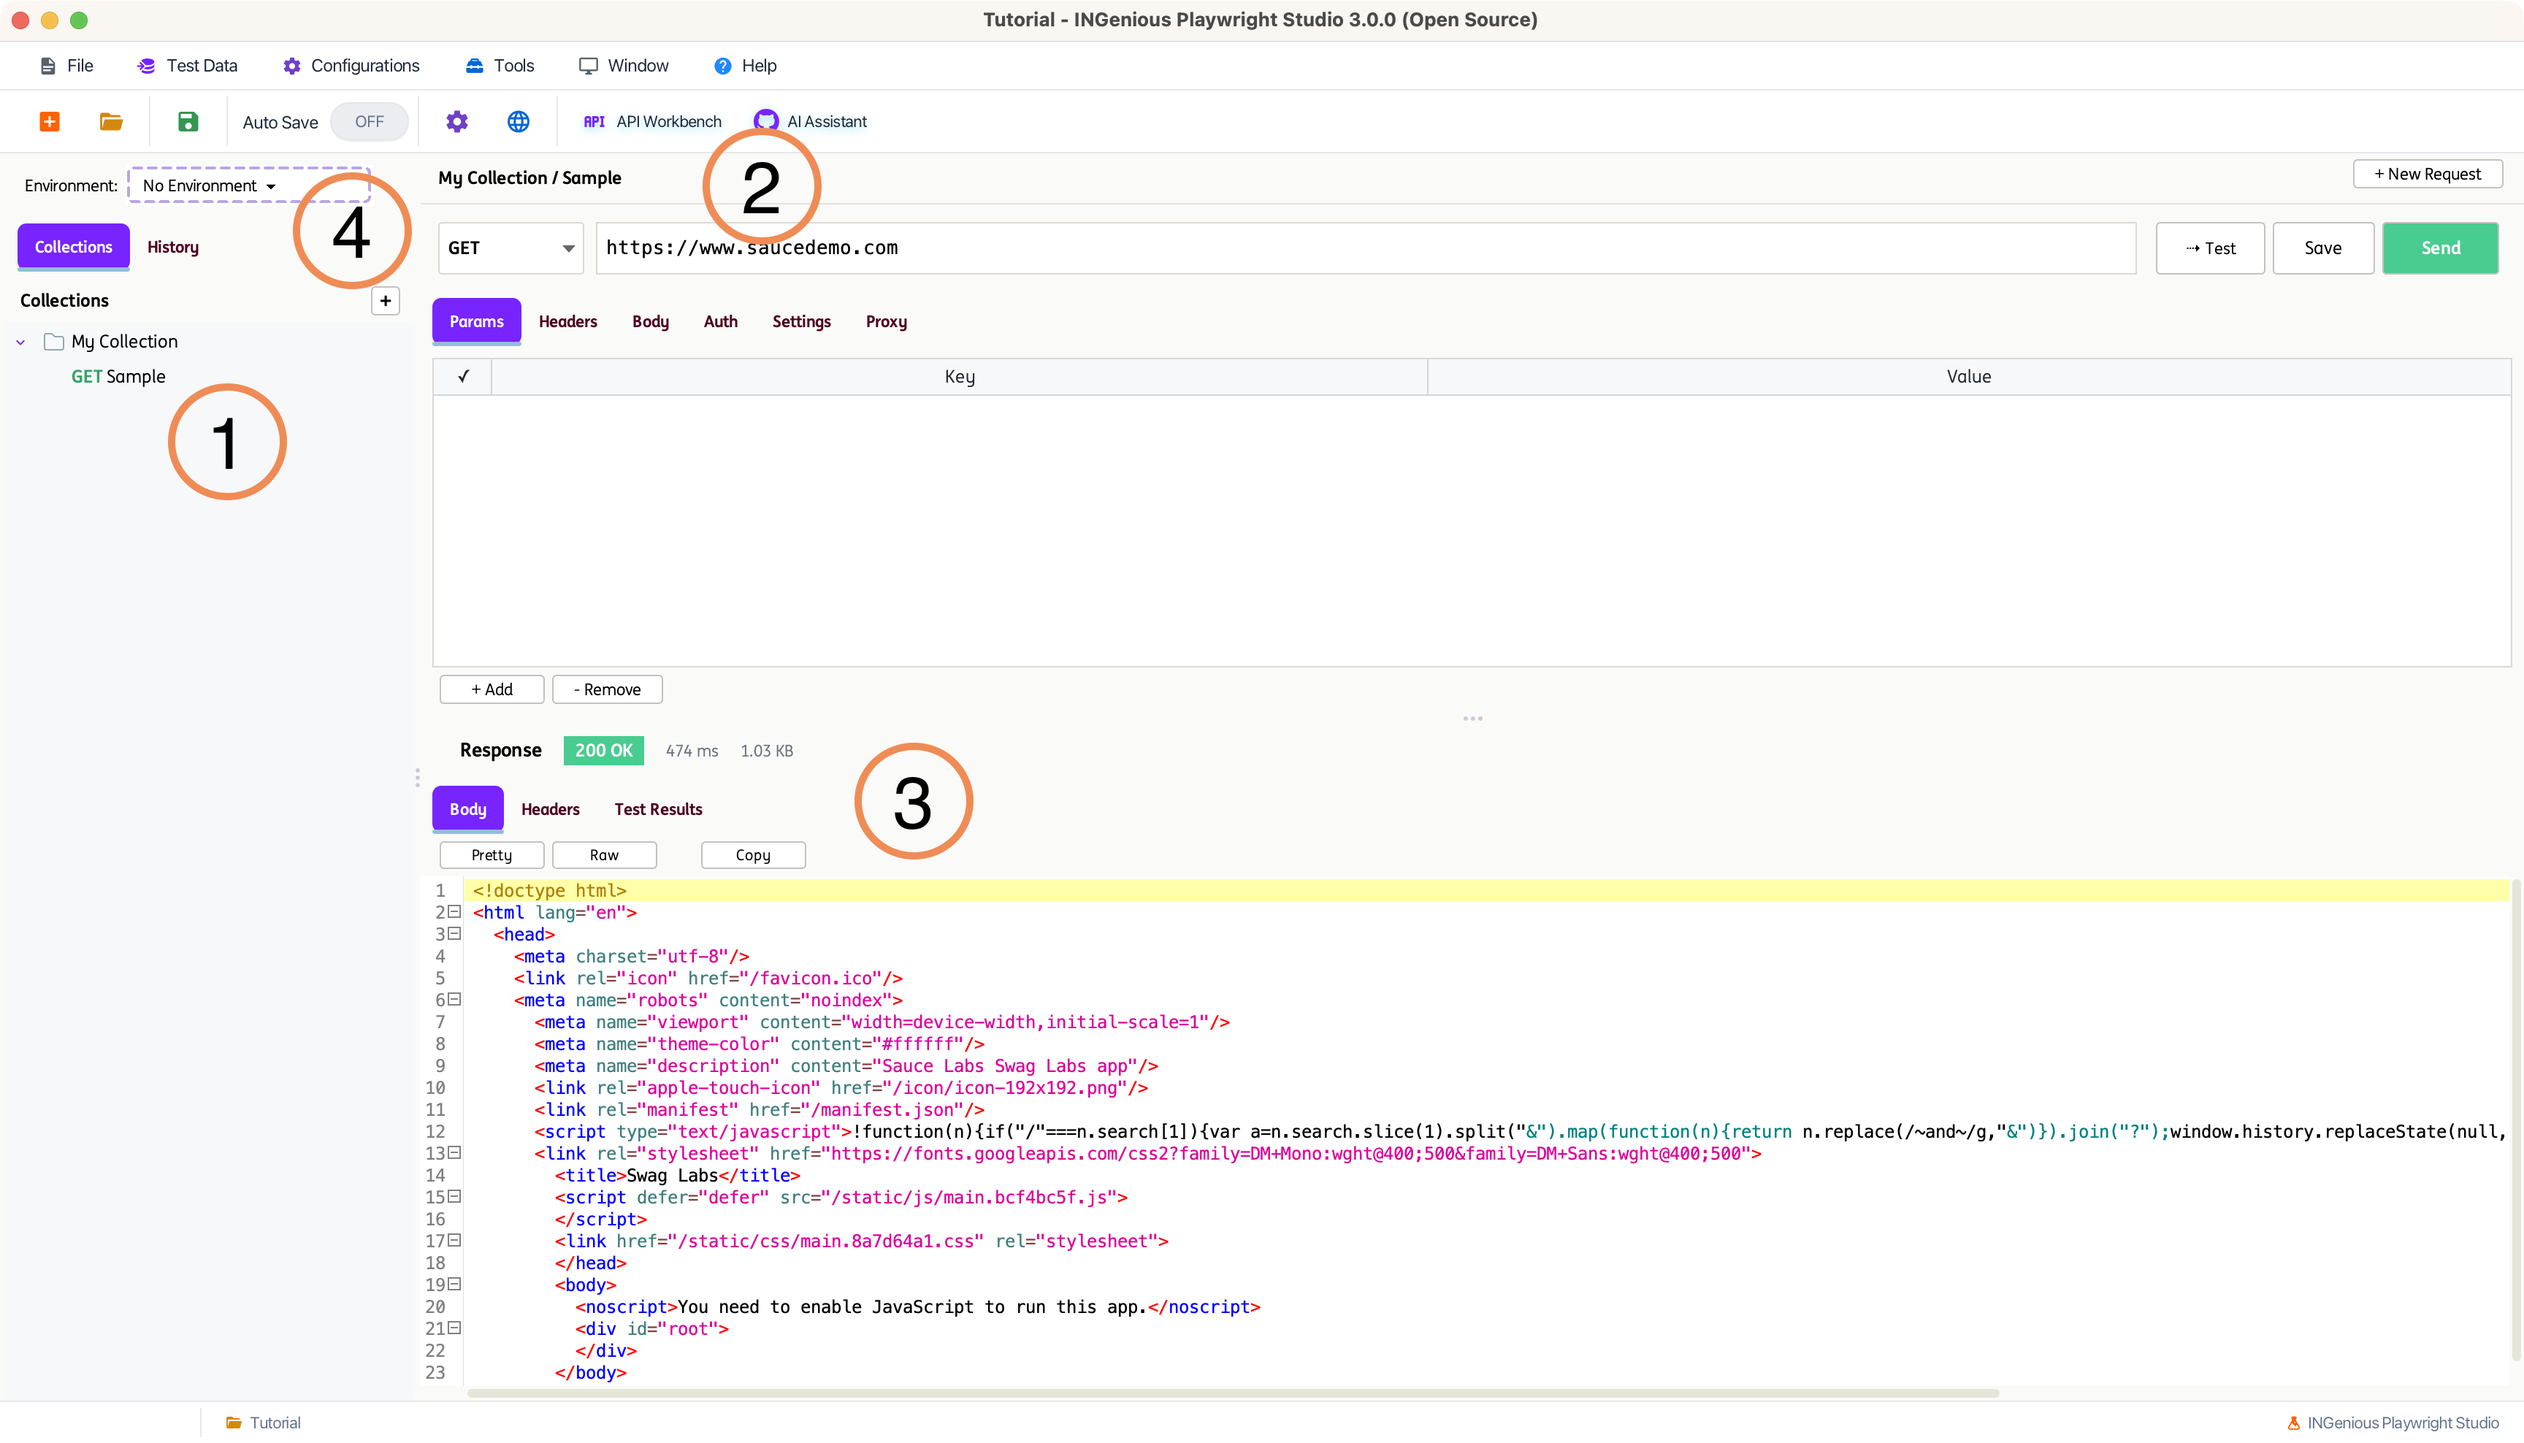
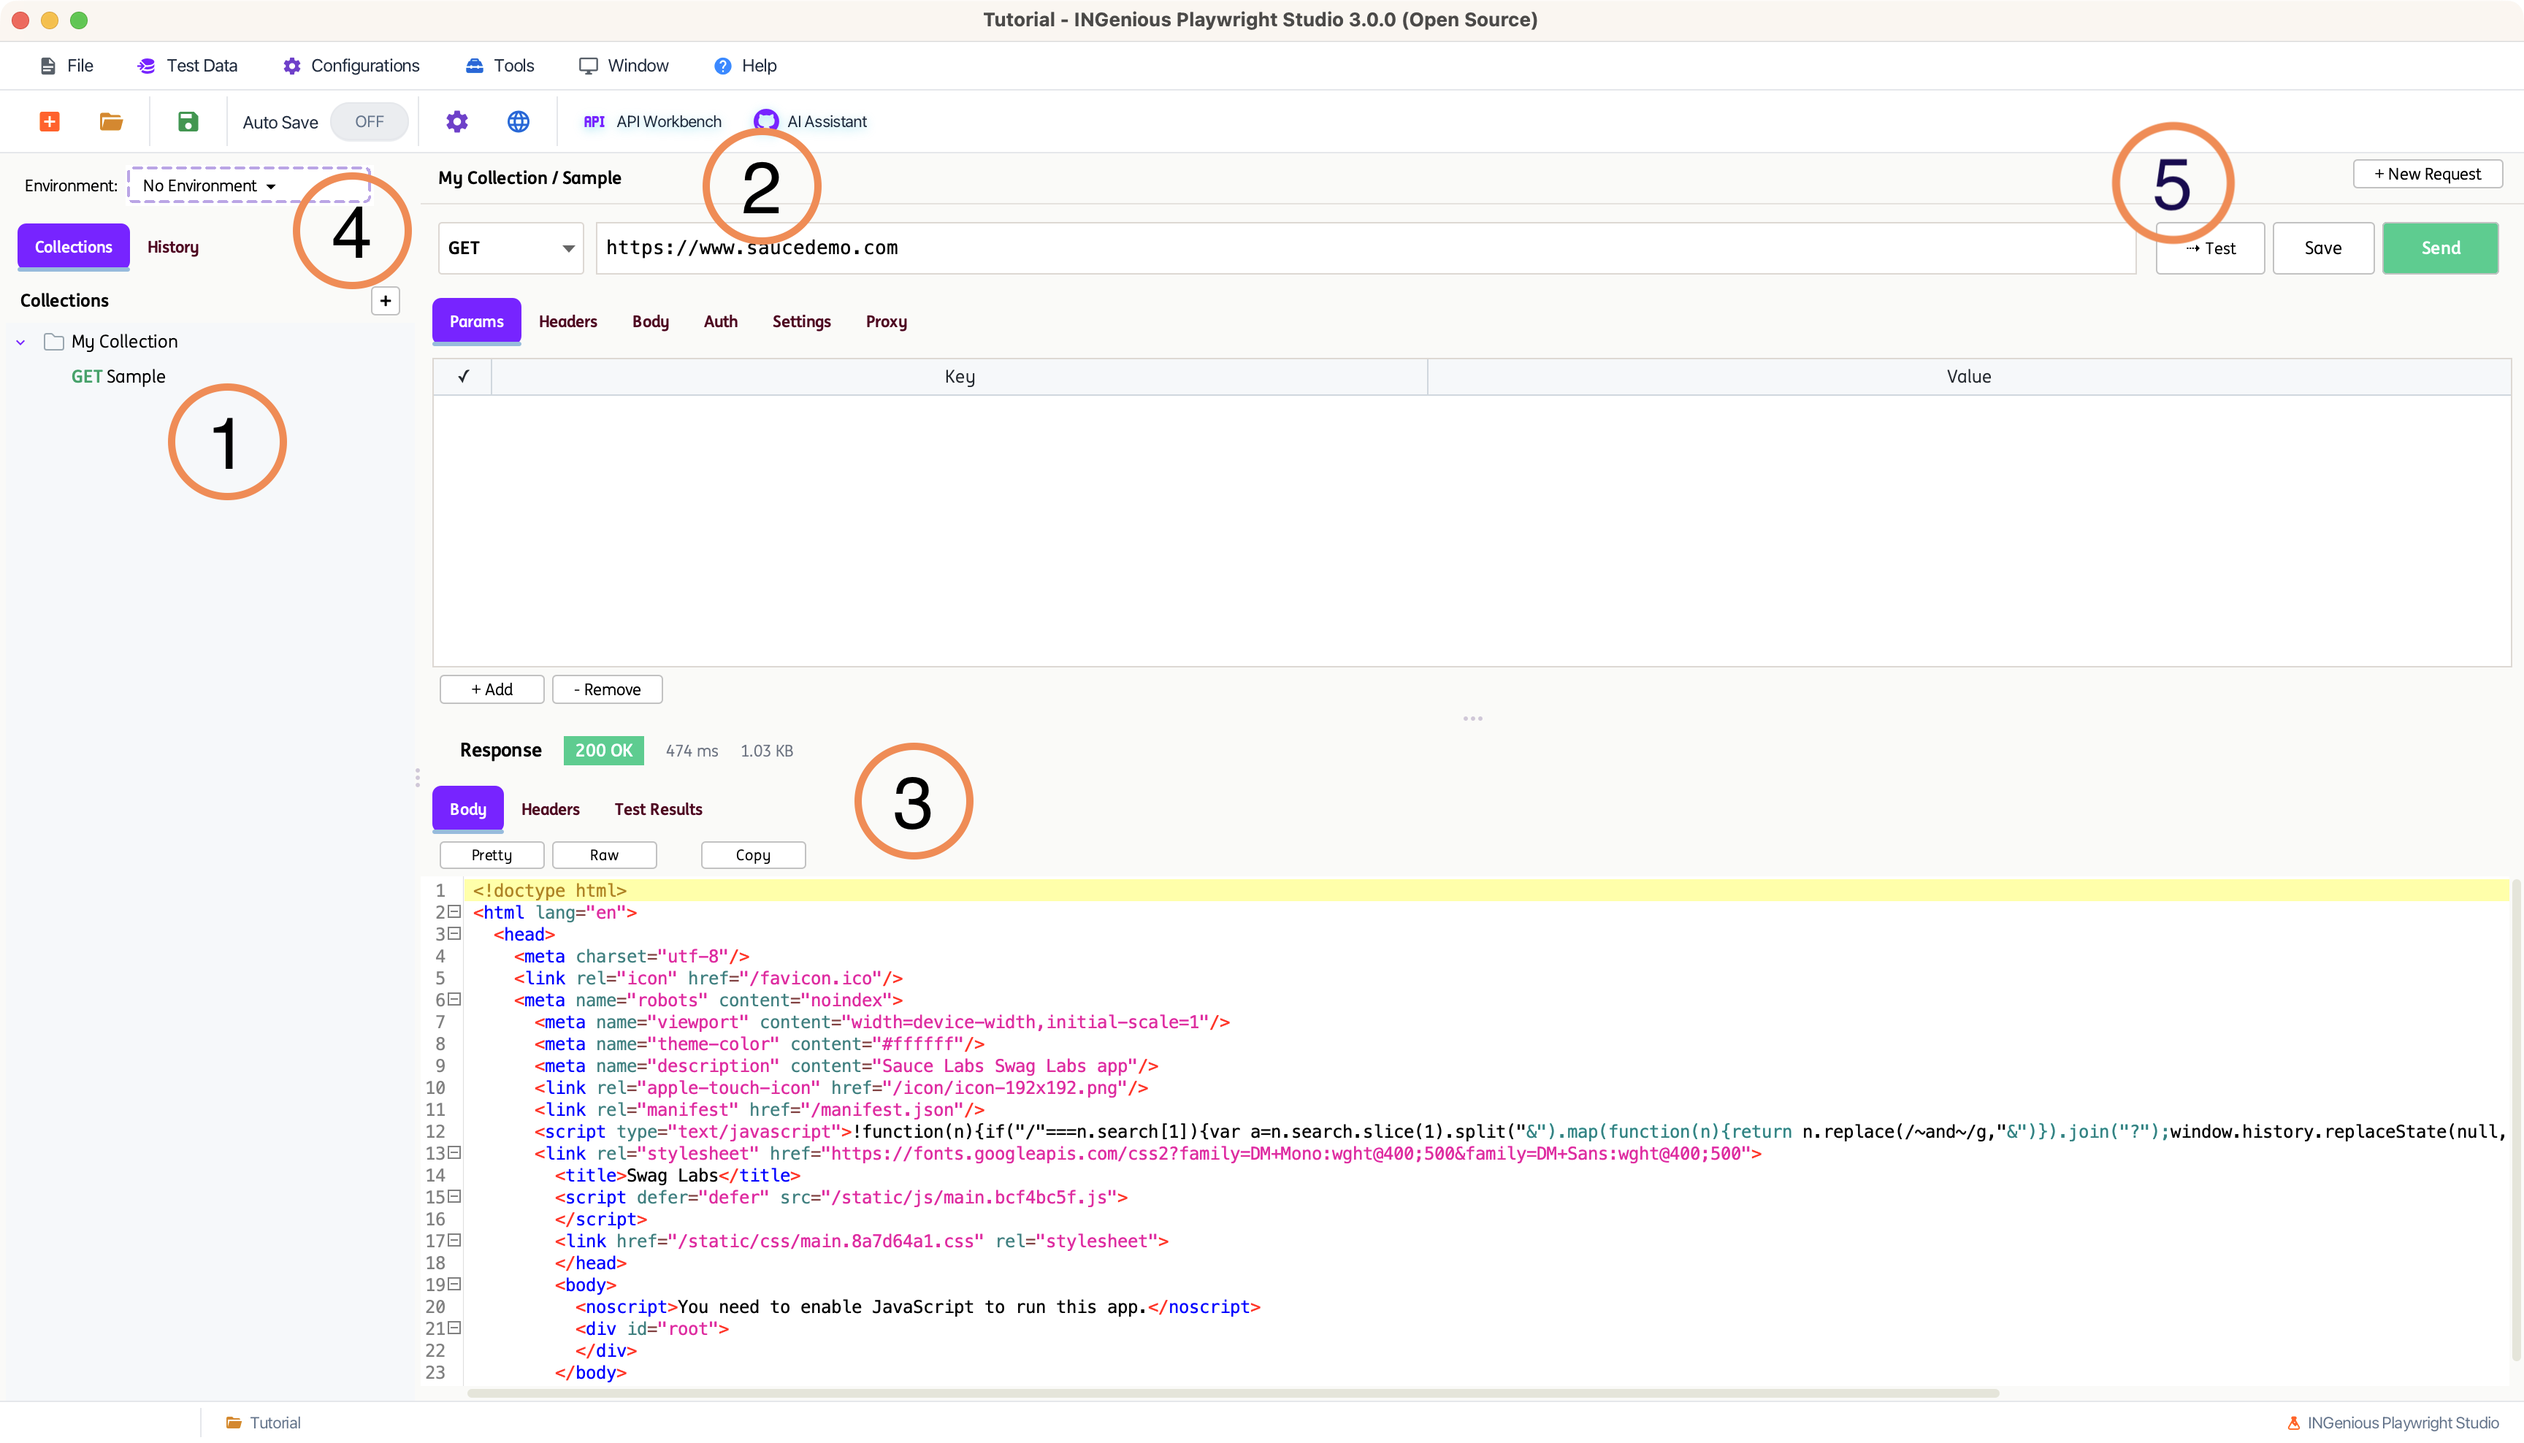
Add documentation for converting API requests to INGenious test cases

diff --git a/docs/api/apiworkbench.md b/docs/api/apiworkbench.md
@@ -81,7 +81,7 @@ Once selected, you will be navigated to API Workbench window. See example below:
 
       ![APIEnvironmentList](../img/api/APIEnvironmentList.png "APIEnvironmentList")
 
-      **Environment Variable Setup**
+      **Environment Variable Configuration**
 
       ![APIEnvironmentVariables](../img/api/APIEnvironmentVariables.png "APIEnvironmentVariables")
 
@@ -90,3 +90,25 @@ Once selected, you will be navigated to API Workbench window. See example below:
       ![APIEnvironmentRequestExample](../img/api/APIEnvironmentRequestExample.png "APIEnvironmentRequestExample")
 
       When a request is executed, all referenced variables are automatically resolved using the currently selected environment.
+
+=== ":five: API Request Conversion to Test Case"
+
+      API requests can be converted directly into INGenious test cases, allowing API validations to be incorporated into automated test suites with minimal effort.
+
+      During conversion, all configured request details are preserved, including:
+
+      * Endpoint URL and query parameters
+      * Request headers
+      * Authentication settings (Basic Auth, Bearer Token, and API Keys)
+      * Request body
+      * Assertions
+
+      If the request contains environment variables (for example `{{baseUrl}}` or `{{token}}`), the values are resolved using the **currently active environment** during conversion. If regular text values are used instead of variables, those values are converted as-is.
+
+      The original API request is not modified. Variable placeholders are retained in the collection, while the generated test case receives the resolved values.
+
+      **Converted Test Case Example (Basic Authentication)**
+
+      ![APIRequestToTestCase](../img/api/APIRequestToTestCase.png "APIRequestToTestCase")
+
+      The generated test case performs the same API call as the API Workbench request and can be executed within INGenious to validate the expected response and assertions.
